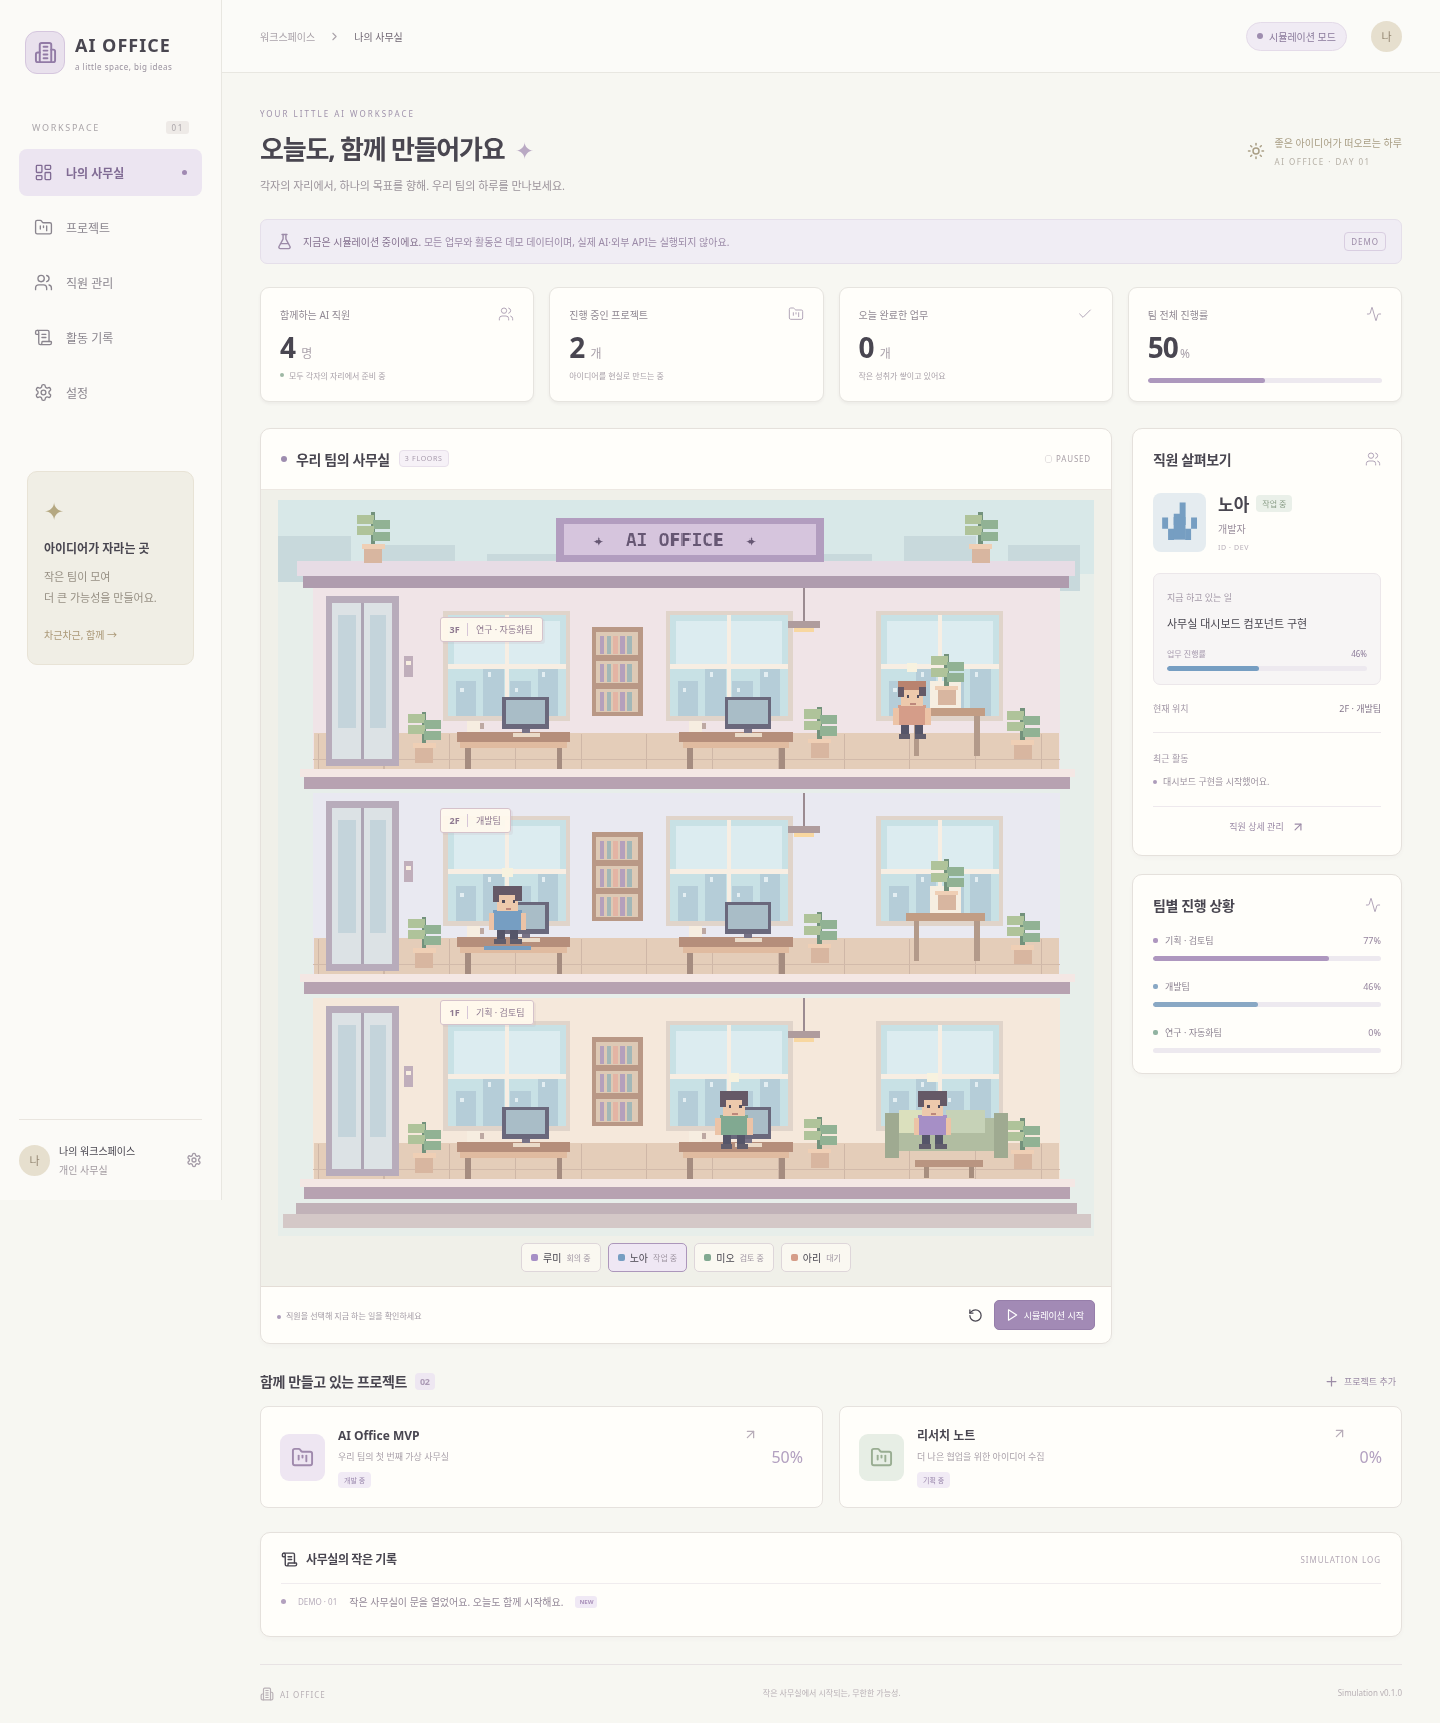
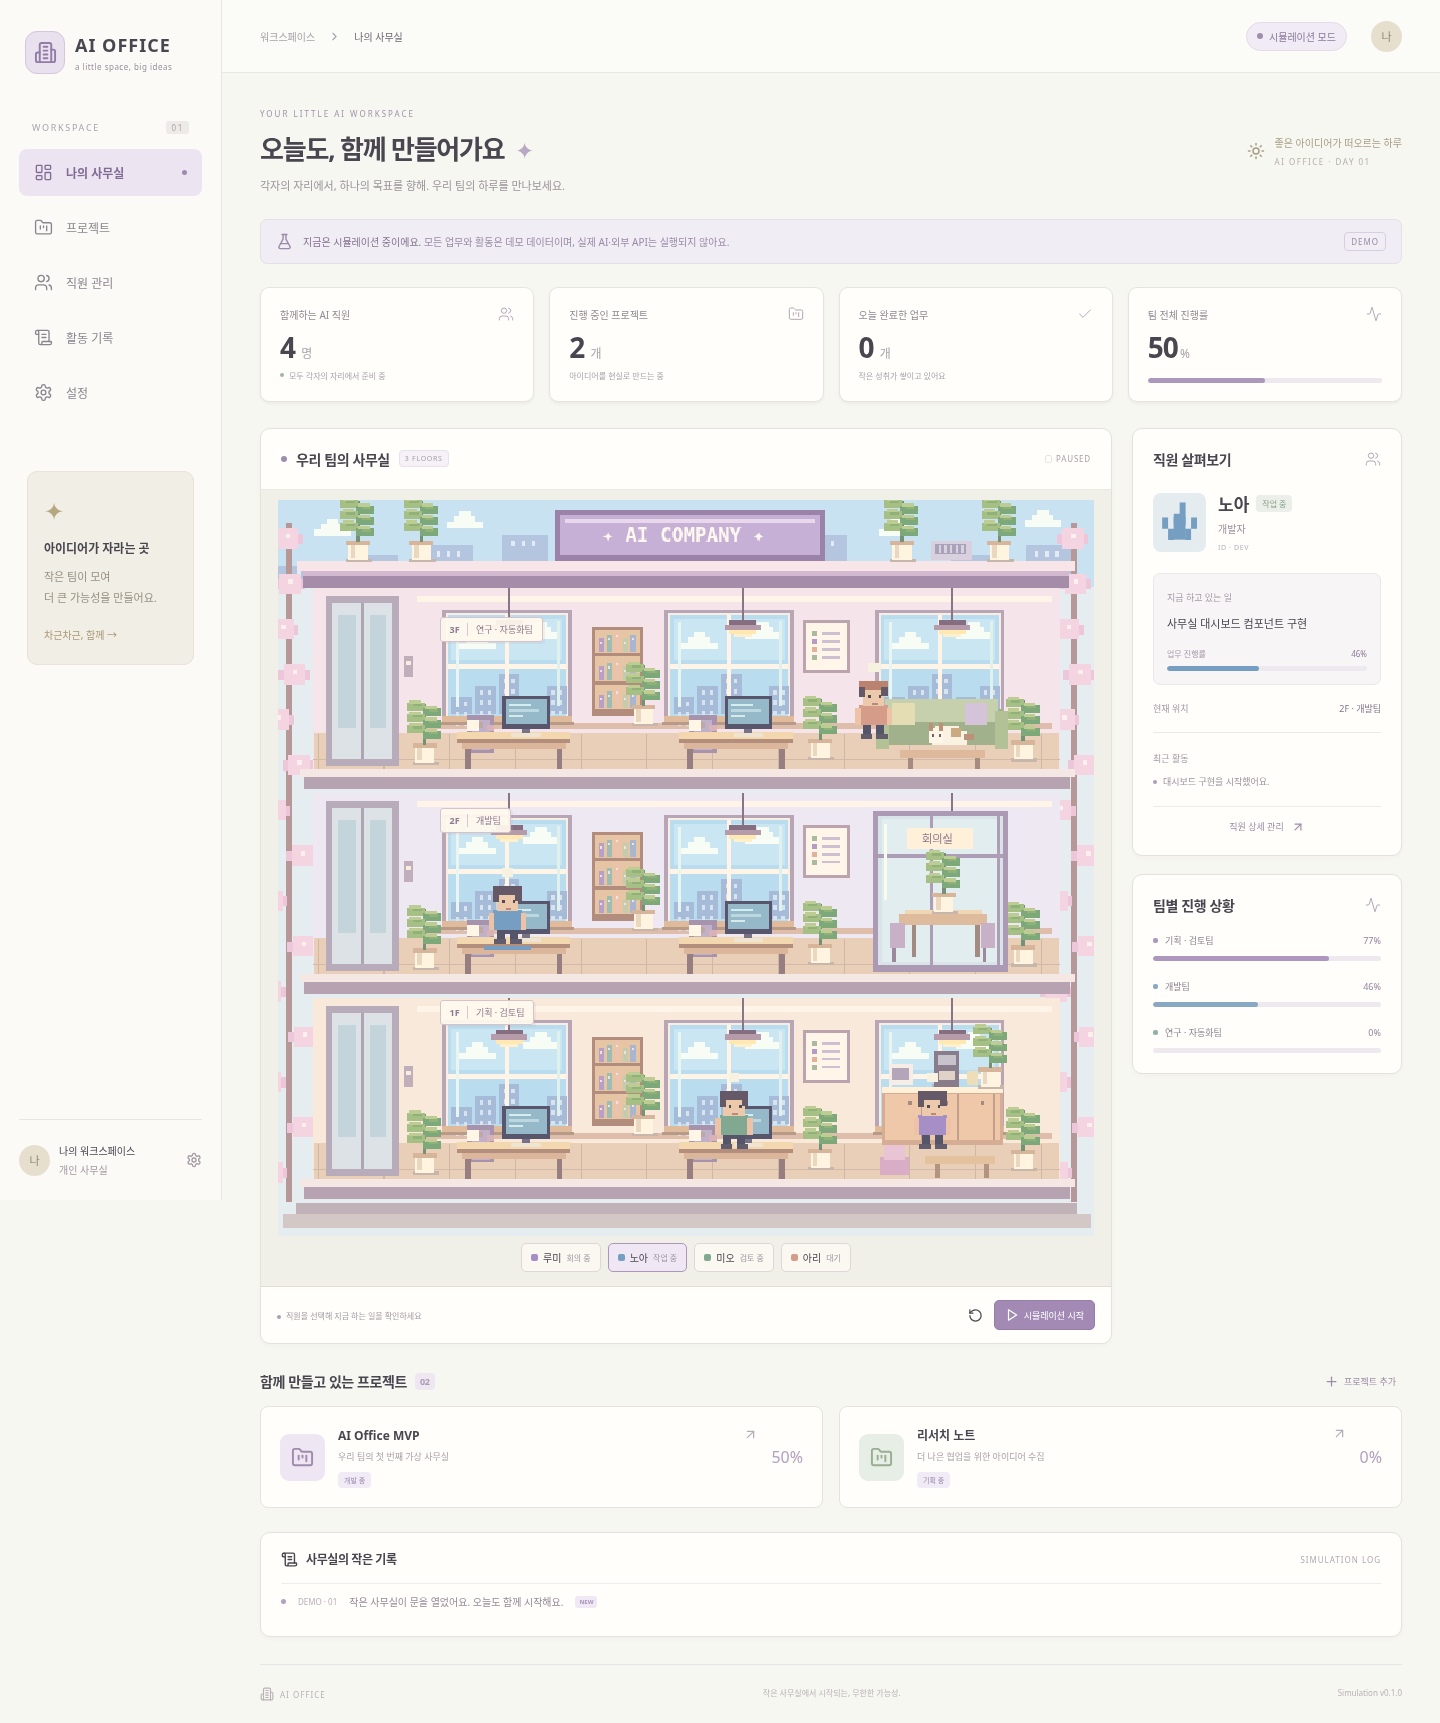
Enrich pastel pixel office with garden roof and distinct floor interiors

Changed region(s): [[0.1875, 0.2768, 0.7812, 0.7075]]

diff --git a/src/Office.tsx b/src/Office.tsx
@@ -7,27 +7,49 @@ useEffect(()=>{const canvas=ref.current!;const c=canvas.getContext('2d')!;let fr
 function draw(){hits.current=[];c.imageSmoothingEnabled=false;c.clearRect(0,0,720,650);
 const rect=(x:number,y:number,w:number,h:number,color:string)=>{c.fillStyle=color;c.fillRect(Math.round(x),Math.round(y),w,h)};
 const line=(x:number,y:number,w:number,h:number,color='#b7a6b3')=>rect(x,y,w,h,color);
-function plant(x:number,y:number){rect(x-8,y,16,17,'#d8b6a0');rect(x-10,y,20,4,'#efcfb5');rect(x-2,y-28,4,28,'#73927c');for(let i=0;i<4;i++){rect(x-(i%2?0:14),y-26+i*5,15,8,i%2?'#91b294':'#afc39a')}}
-function window(x:number,y:number){rect(x-4,y-4,112,97,'#e0d4ca');rect(x,y,104,89,'#c8e1e5');rect(x+5,y+5,94,40,'#dcecf0');for(let i=0;i<4;i++){rect(x+7+i*24,y+58-(i%2)*14,18,31+(i%2)*14,'#b5cdd8');rect(x+11+i*24,y+64-(i%2)*14,3,4,'#e3eef2')}line(x+50,y,4,89,'#f7eee3');line(x,y+43,104,4,'#f7eee3')}
-function desk(x:number,y:number){rect(x,y,100,9,'#b58e7b');rect(x+3,y+9,94,5,'#e0bba0');rect(x+7,y+14,5,29,'#a58c80');rect(x+88,y+14,5,29,'#a58c80');rect(x+40,y-31,41,28,'#6a687c');rect(x+43,y-28,35,21,'#a9bdc7');rect(x+57,y-3,7,4,'#777286');rect(x+49,y+1,24,3,'#eadac8');rect(x+9,y-10,11,10,'#f6ede0');rect(x+20,y-8,4,5,'#bda8a2')}
+function plant(x:number,y:number){
+rect(x-10,y+16,23,3,'#c7b6ac');rect(x-8,y,17,17,'#fff4df');rect(x-6,y+3,4,12,'#ead7c0');rect(x-10,y,21,4,'#d7b59b');
+rect(x-1,y-35,3,36,'#759276');for(let i=0;i<6;i++){const dx=i%2?-1:-15;rect(x+dx,y-36+i*5,16,7,i%2?'#7da879':'#a5bf85');rect(x+dx+2,y-38+i*5,10,3,'#bdcc92');rect(x+dx+5,y-35+i*5,8,2,'#91b17a')}}
+function cloud(x:number,y:number){rect(x,y,32,6,'#f7fcf5');rect(x+6,y-5,19,5,'#f7fcf5');rect(x+11,y-9,10,4,'#f7fcf5')}
+function window(x:number,y:number){rect(x-5,y-5,114,100,'#b8a6b7');rect(x-2,y-2,108,94,'#f9eee4');rect(x,y,104,89,'#b9dcee');rect(x+3,y+3,98,36,'#cbe6f3');cloud(x+10,y+24);cloud(x+66,y+15);for(let i=0;i<5;i++){const h=15+(i%3)*10;rect(x+3+i*21,y+87-h,18,h,'#a5bbd7');for(let j=0;j<3;j++){rect(x+7+i*21,y+91-h+j*9,3,4,'#d8e3f0');rect(x+14+i*21,y+91-h+j*9,3,4,'#d8e3f0')}}
+line(x+50,y,4,89,'#fff4e6');line(x,y+43,104,4,'#fff4e6');rect(x+7,y+6,3,75,'#e9f5f1');rect(x+96,y+5,3,75,'#dff0ed');rect(x-5,y+89,114,5,'#e0bb9b');rect(x-7,y+94,118,3,'#b89a88');}
+function desk(x:number,y:number){rect(x+4,y+36,97,4,'#ceb5aa');rect(x+9,y-15,24,33,'#a794ac');rect(x+13,y-11,16,27,'#c1b0ca');rect(x,y,100,6,'#f3d7ae');rect(x,y+6,100,4,'#b38e7c');rect(x+4,y+10,92,5,'#dbb69a');rect(x+7,y+15,5,28,'#977f81');rect(x+88,y+15,5,28,'#977f81');rect(x+40,y-32,42,29,'#57566c');rect(x+43,y-29,36,22,'#95b9c8');rect(x+46,y-25,19,2,'#d4edf0');rect(x+46,y-20,26,2,'#bbd7df');rect(x+46,y-15,12,2,'#d7e9e8');rect(x+57,y-3,7,4,'#777286');rect(x+48,y+1,26,3,'#eee4d4');rect(x+9,y-11,10,10,'#fff6e5');rect(x+19,y-9,4,5,'#bda8a2');rect(x+26,y-6,7,5,'#d9b2b8')}
+function lamp(x:number,y:number){line(x,y,2,29,'#887585');rect(x-11,y+28,24,4,'#866e81');rect(x-15,y+32,32,5,'#b69cab');rect(x-11,y+37,24,3,'#ffe8b1');rect(x-7,y+40,16,3,'#fff0cd')}
+function shelf(x:number,y:number){rect(x,y,45,79,'#b28d7d');rect(x+3,y+3,39,73,'#e5c5a4');for(let row=0;row<3;row++){for(let b=0;b<5;b++){const h=12+(b%3)*3;rect(x+6+b*7,y+22+row*25-h,5,h,['#b6a0c7','#9ebcb4','#edc2ac','#c3ccad','#a8b6cf'][b]);rect(x+7+b*7,y+25+row*25-h,2,2,'#eee4dc')}rect(x+2,y+23+row*25,41,3,'#b28d7d')}}
+function cat(x:number,y:number){rect(x,y+7,31,12,'#f9f2e3');rect(x+3,y+3,21,8,'#f9f2e3');rect(x-3,y+4,13,14,'#fff6e7');rect(x-3,y,4,7,'#ba927a');rect(x+6,y,4,7,'#ba927a');rect(x+17,y+4,9,8,'#ccaa81');rect(x+28,y+10,9,5,'#ba927a');rect(x,y+10,2,2,'#73616a');rect(x+6,y+10,2,2,'#73616a')}
 function person(e:Employee,x:number,y:number){const bob=running&&!reduced&&e.status==='작업 중'?Math.floor(frame/2)%2:0;y+=bob;
 rect(x+3,y+35,7,13,'#555569');rect(x+15,y+35,7,13,'#555569');rect(x+1,y+47,10,4,'#615d6c');rect(x+15,y+47,10,4,'#615d6c');rect(x,y+21,25,18,e.color);rect(x-4,y+24,5,15,'#ecc3a6');rect(x+24,y+24,5,15,'#ecc3a6');rect(x+3,y+3,19,19,'#edc9ac');rect(x,y,25,8,e.id==='research'?'#b9836f':'#655967');rect(x,y+5,5,9,'#655967');rect(x+19,y+5,6,8,'#655967');rect(x+8,y+12,2,3,'#504b5a');rect(x+17,y+12,2,3,'#504b5a');rect(x+11,y+19,5,2,'#bd887c');
 rect(x+8,y-16,9,8,e.status==='오류'?'#ce8079':e.status==='완료'?'#83aa8a':'#f7f2df');if(e.id===selected){rect(x-8,y+53,41,3,e.color)}
 }
-// sky and building roof
-rect(0,0,720,650,'#e7eeea');rect(0,0,720,65,'#d8e8e8');for(let i=0;i<9;i++)rect(i*92,32+(i%3)*8,64,40,'#c8d9dc');
-rect(22,59,676,19,'#af9cae');rect(17,54,686,13,'#e7dce5');rect(245,16,237,39,'#b29dbf');rect(252,21,223,28,'#d6c5dd');c.fillStyle='#665773';c.font='bold 16px monospace';c.fillText('✦  AI OFFICE  ✦',278,41);plant(84,39);plant(620,39);
-for(let f=3;f>=1;f--){const y=78+(3-f)*181;const colors=['#f5e8db','#e9e9f1','#f0e4e7'];rect(31,y,659,164,colors[f-1]);rect(32,y+128,657,36,'#e4cdb9');for(let i=0;i<12;i++)line(35+i*58,y+129,1,35,'#cfb7a7');line(31,y+151,659,1,'#d2baaa');
+// Original pastel cutaway: layered skyline, garden roof and blossoms.
+rect(0,0,720,650,'#e6edf1');rect(0,0,720,77,'#c8e2f1');cloud(32,26);cloud(149,19);cloud(530,26);cloud(659,18);
+for(let i=0;i<12;i++){const h=18+(i%4)*9;rect(i*66,76-h,40,h,'#b4c6df');for(let j=0;j<3;j++)rect(i*66+8+j*9,81-h,3,5,'#e3eaf4')}
+for(const x of [7,700]){rect(x,20,5,600,'#b69899');for(let i=0;i<15;i++){const yy=30+i*40;const dx=Math.round(Math.sin(i*3)*15);rect(x+dx-13,yy,28,9,'#edc6d9');rect(x+dx-8,yy-5,19,18,'#f5d4e2');rect(x+dx,yy,4,4,'#fff0ed')}}
+rect(22,59,676,19,'#a58da9');rect(17,54,686,9,'#f8e5e8');rect(22,63,676,4,'#d3b9cf');
+rect(244,9,239,45,'#9b82a9');rect(249,13,229,36,'#c6b0d6');rect(253,17,221,3,'#e9d7ec');c.fillStyle='#fff8ef';c.font='bold 17px monospace';c.fillText('✦ AI COMPANY ✦',286,37);
+for(const x of [70,126,550,636])plant(x,36);rect(576,36,36,17,'#d8d0de');rect(580,39,27,9,'#aaa2b8');for(let i=0;i<5;i++)line(583+i*5,40,2,7,'#d5d3e0');
+for(let f=3;f>=1;f--){const y=78+(3-f)*181;const colors=['#f8e9db','#eee8f3','#f5e4e9'];rect(31,y,659,164,colors[f-1]);rect(32,y+128,657,36,'#e9cfb7');rect(123,y+7,560,5,'#fff4e7');rect(123,y+119,560,5,'#dfbdab');for(let i=0;i<12;i++)line(35+i*58,y+129,1,35,'#cfb7a7');line(31,y+151,659,1,'#d2baaa');
 // elevator shaft
 rect(42,y+7,65,150,'#b8acbb');rect(48,y+13,53,138,'#dce2e5');rect(73,y+13,3,138,'#ada4b4');rect(53,y+24,16,99,'#c4d4db');rect(81,y+24,14,99,'#c4d4db');rect(111,y+60,8,18,'#c0aebb');rect(113,y+64,4,4,'#f8eee0');
 window(150,y+24);window(346,y+24);window(532,y+24);
-// shelves, lamps and wall art
-rect(277,y+34,45,79,'#b99886');for(let s=0;s<3;s++){rect(281,y+39+s*25,37,20,'#ddc9b5');for(let b=0;b<5;b++)rect(284+b*6,y+42+s*25,4,16,['#b4a0bc','#a2b7b7','#e3b4a4'][b%3])}
-line(463,y,2,30,'#9b8b91');rect(450,y+29,28,6,'#af9c9d');rect(455,y+35,18,4,'#f8d7a0');
-desk(158,y+127);desk(354,y+127);plant(129,y+137);plant(478,y+133);plant(657,y+134);
-if(f===1){rect(540,y+106,99,29,'#b1bda1');rect(536,y+101,12,40,'#9faa91');rect(632,y+101,12,40,'#9faa91');rect(548,y+99,34,20,'#dbe0bd');rect(589,y+99,35,20,'#c6d2b7');rect(562,y+143,60,6,'#b99581');rect(570,y+149,4,10,'#a78e7e');rect(610,y+149,4,10,'#a78e7e')}
-else {rect(554,y+106,70,7,'#c29d84');rect(561,y+113,5,35,'#b39a8a');rect(614,y+113,5,35,'#b39a8a');rect(575,y+82,28,24,'#f6eee1');plant(590,y+86)}
-const members=team.filter(e=>e.floor===f);members.forEach((e,i)=>{let x=190+i*196;if(e.status==='회의 중')x=565; if(e.status==='대기')x=547;if(e.status==='완료')x=490;if(e.status==='오류')x=120;if(e.status==='검토 중')x=390;const walk=running&&!reduced&&e.status==='회의 중'?Math.round(Math.sin(frame/4)*15):0;hits.current.push({id:e.id,x:x+walk,y:y+82});person(e,x+walk,y+82)});
+// Distinct departments, practical furniture, plants and small original props.
+shelf(277,y+34);lamp(203,y);lamp(409,y);lamp(594,y);
+desk(158,y+127);desk(354,y+127);plant(129,y+137);plant(478,y+133);plant(657,y+134);plant(322,y+103);
+// Wall chart beside the central window.
+rect(463,y+28,42,47,'#bca4af');rect(466,y+31,36,41,'#fff5e9');for(let r=0;r<4;r++){rect(471,y+38+r*7,5,4,['#a9bb9e','#b59bc6','#e2b19b'][r%3]);rect(480,y+39+r*7,16,2,'#cdc0d0')}
+if(f===3){
+rect(531,y+107,109,31,'#a1b18c');rect(536,y+98,99,20,'#c6d0ac');rect(528,y+108,11,34,'#b2c296');rect(633,y+108,11,34,'#b2c296');rect(542,y+101,20,20,'#e4ddb4');rect(606,y+101,20,20,'#d5c4d9');rect(549,y+143,75,7,'#dfb99b');rect(556,y+150,4,10,'#a88b80');rect(615,y+150,4,10,'#a88b80');cat(577,y+119);
+}else if(f===2){
+// Glass meeting room with framed door and pastel chairs.
+rect(525,y+16,119,142,'#ac9ab5');rect(529,y+20,111,132,'#d9e4e9');rect(533,y+23,103,126,'#e2edf0');line(575,y+20,3,132,'#ae9db7');line(529,y+54,111,3,'#ae9db7');line(634,y+20,3,132,'#ae9db7');line(535,y+27,2,67,'#f9fbef');rect(555,y+31,58,18,'#fff0d9');c.fillStyle='#887288';c.font='10px sans-serif';c.fillText('회의실',568,y+44);
+rect(548,y+107,78,9,'#dfbb9e');rect(553,y+103,68,4,'#efd6b4');rect(559,y+116,4,29,'#a48b82');rect(615,y+116,4,29,'#a48b82');for(const xx of [540,620]){rect(xx,y+115,13,22,'#c8b0c7');rect(xx+2,y+137,3,12,'#9c899e')}plant(587,y+88);
+}else{
+// Cream kitchenette and pink reading nook.
+rect(533,y+81,107,49,'#d5ad95');rect(536,y+85,101,40,'#efc8a9');rect(533,y+78,107,6,'#fff0d7');for(let k=0;k<3;k++){line(567+k*32,y+85,2,40,'#c39e8b');rect(556+k*32,y+91,3,3,'#a68b81')}
+rect(539,y+58,21,19,'#f6eee6');rect(542,y+62,15,10,'#b4a6b8');rect(579,y+47,22,31,'#897d8c');rect(582,y+50,16,9,'#c6c3cc');rect(583,y+64,14,8,'#e1d2c7');rect(608,y+64,10,13,'#edddb9');plant(628,y+61);
+rect(531,y+140,26,16,'#d8adc5');rect(535,y+130,18,13,'#e9c4d5');rect(571,y+139,62,7,'#e4c19f');rect(580,y+146,4,13,'#b39482');rect(623,y+146,4,13,'#b39482');
+}
+const members=team.filter(e=>e.floor===f);members.forEach((e,i)=>{let x=190+i*196;if(e.status==='회의 중')x=565; if(e.status==='대기')x=513;if(e.status==='완료')x=490;if(e.status==='오류')x=120;if(e.status==='검토 중')x=390;const walk=running&&!reduced&&e.status==='회의 중'?Math.round(Math.sin(frame/4)*15):0;hits.current.push({id:e.id,x:x+walk,y:y+82});person(e,x+walk,y+82)});
 rect(23,y+164,676,13,'#b7a2b1');rect(19,y+160,684,7,'#f4e7e4');}
 rect(16,621,689,10,'#c1b2b8');rect(4,631,713,12,'#d4c8c7');frame++;if(running&&!reduced)timer=setTimeout(draw,450);}
 draw();return()=>clearTimeout(timer);},[team,selected,running]);
